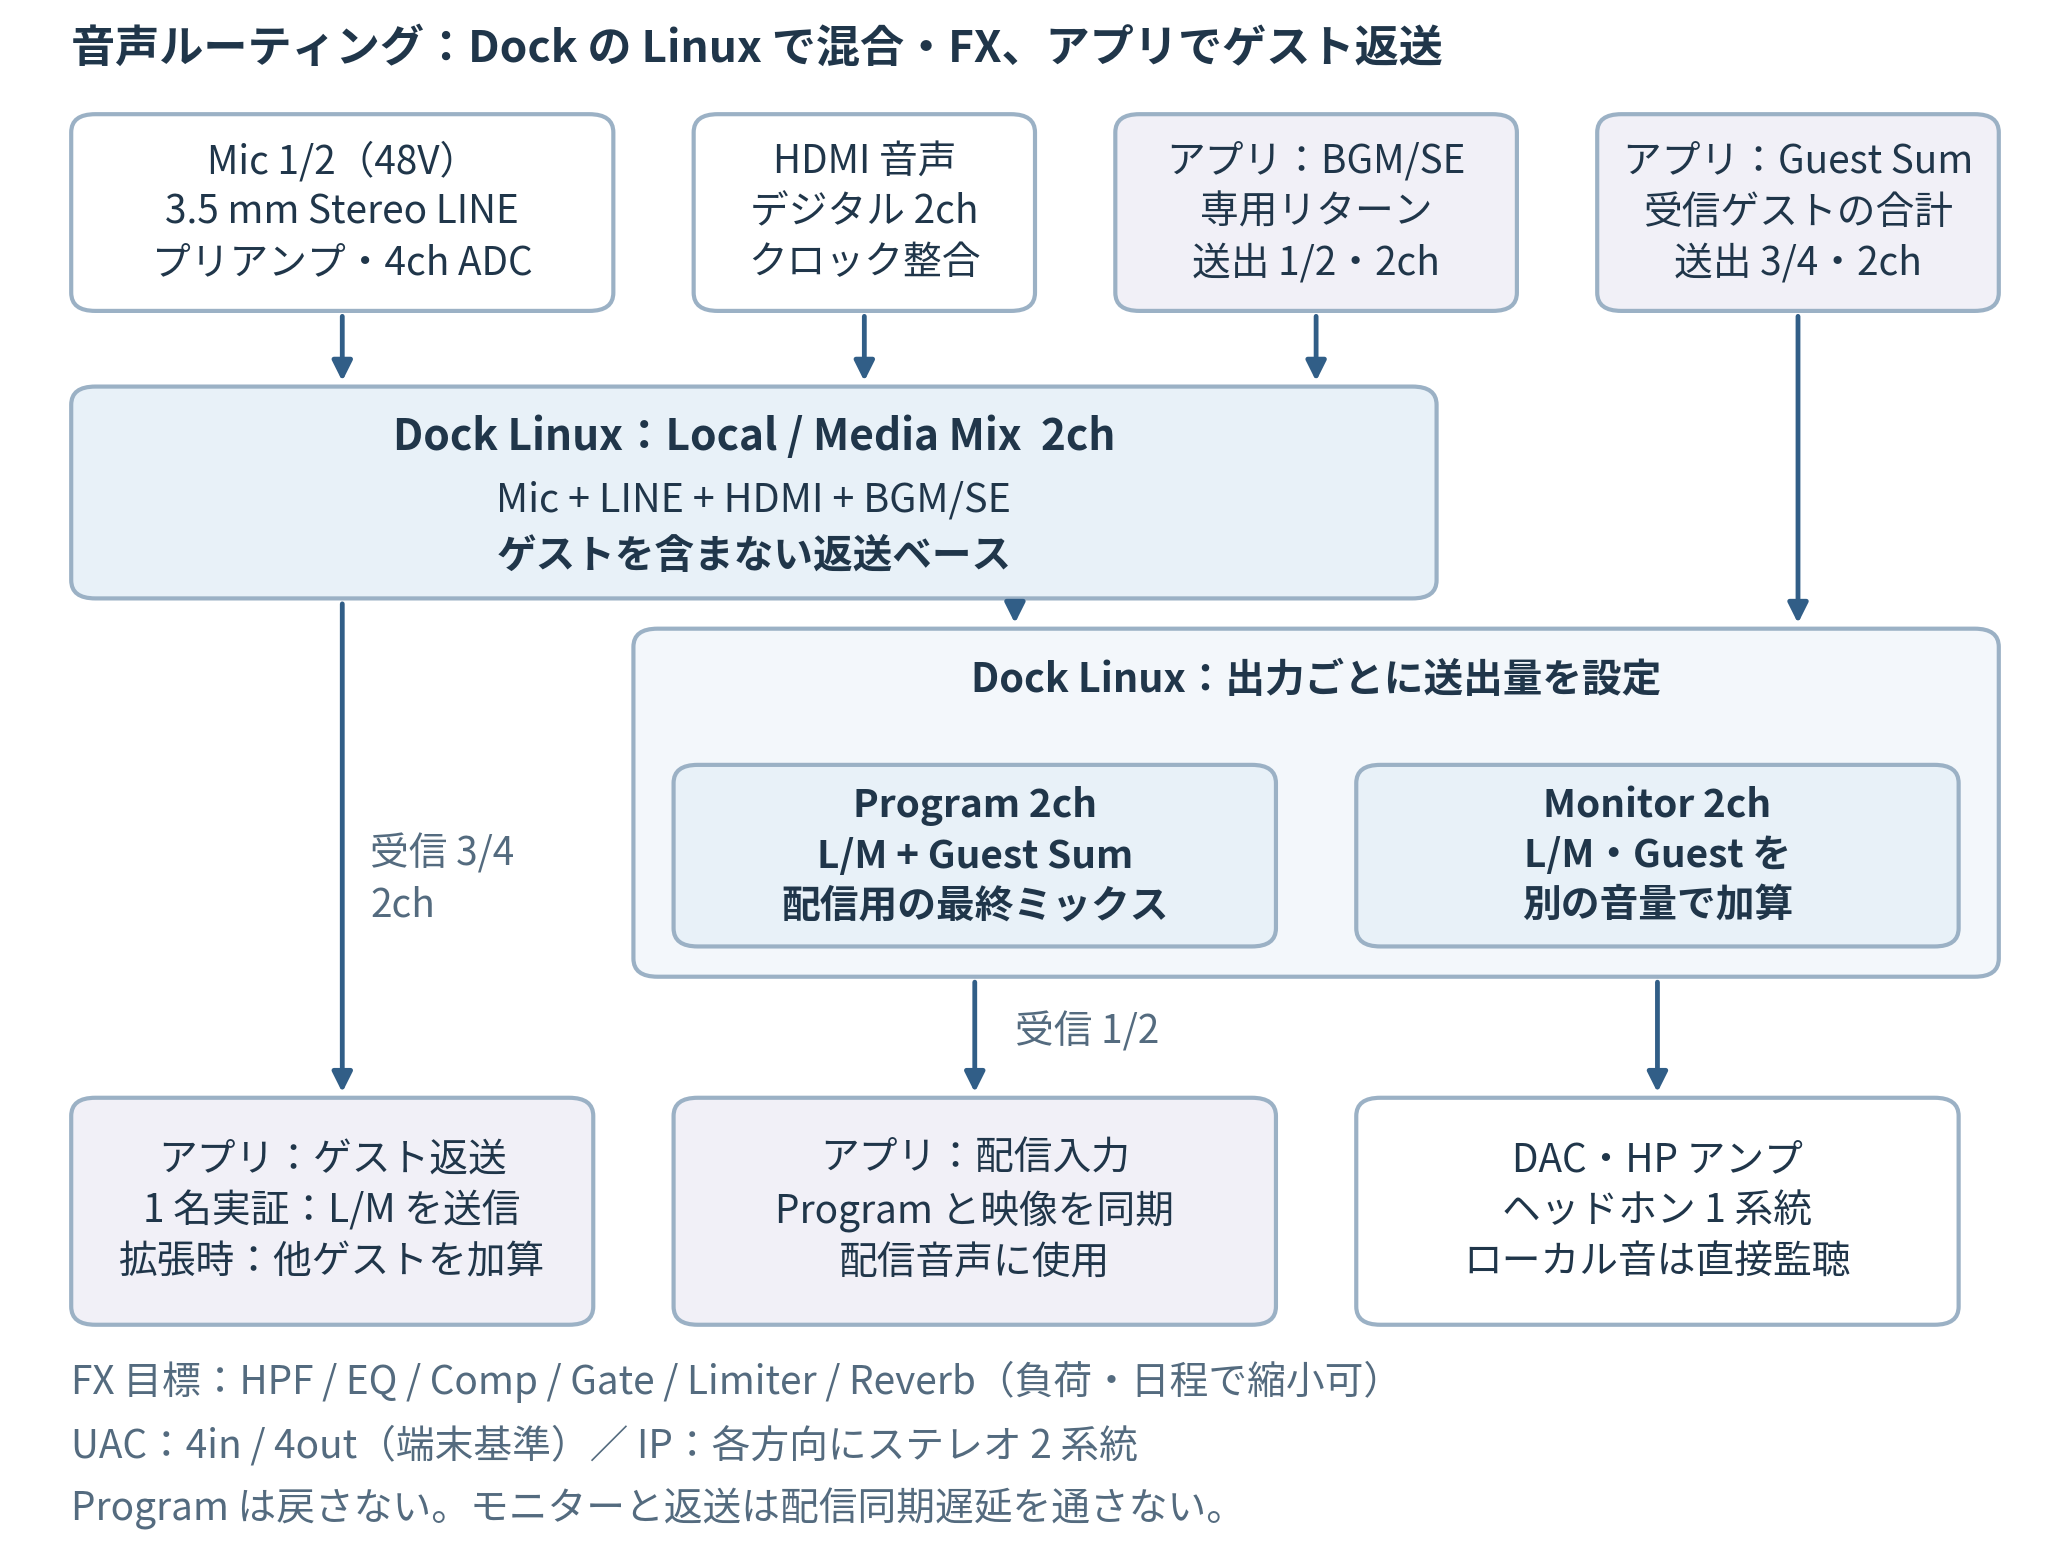
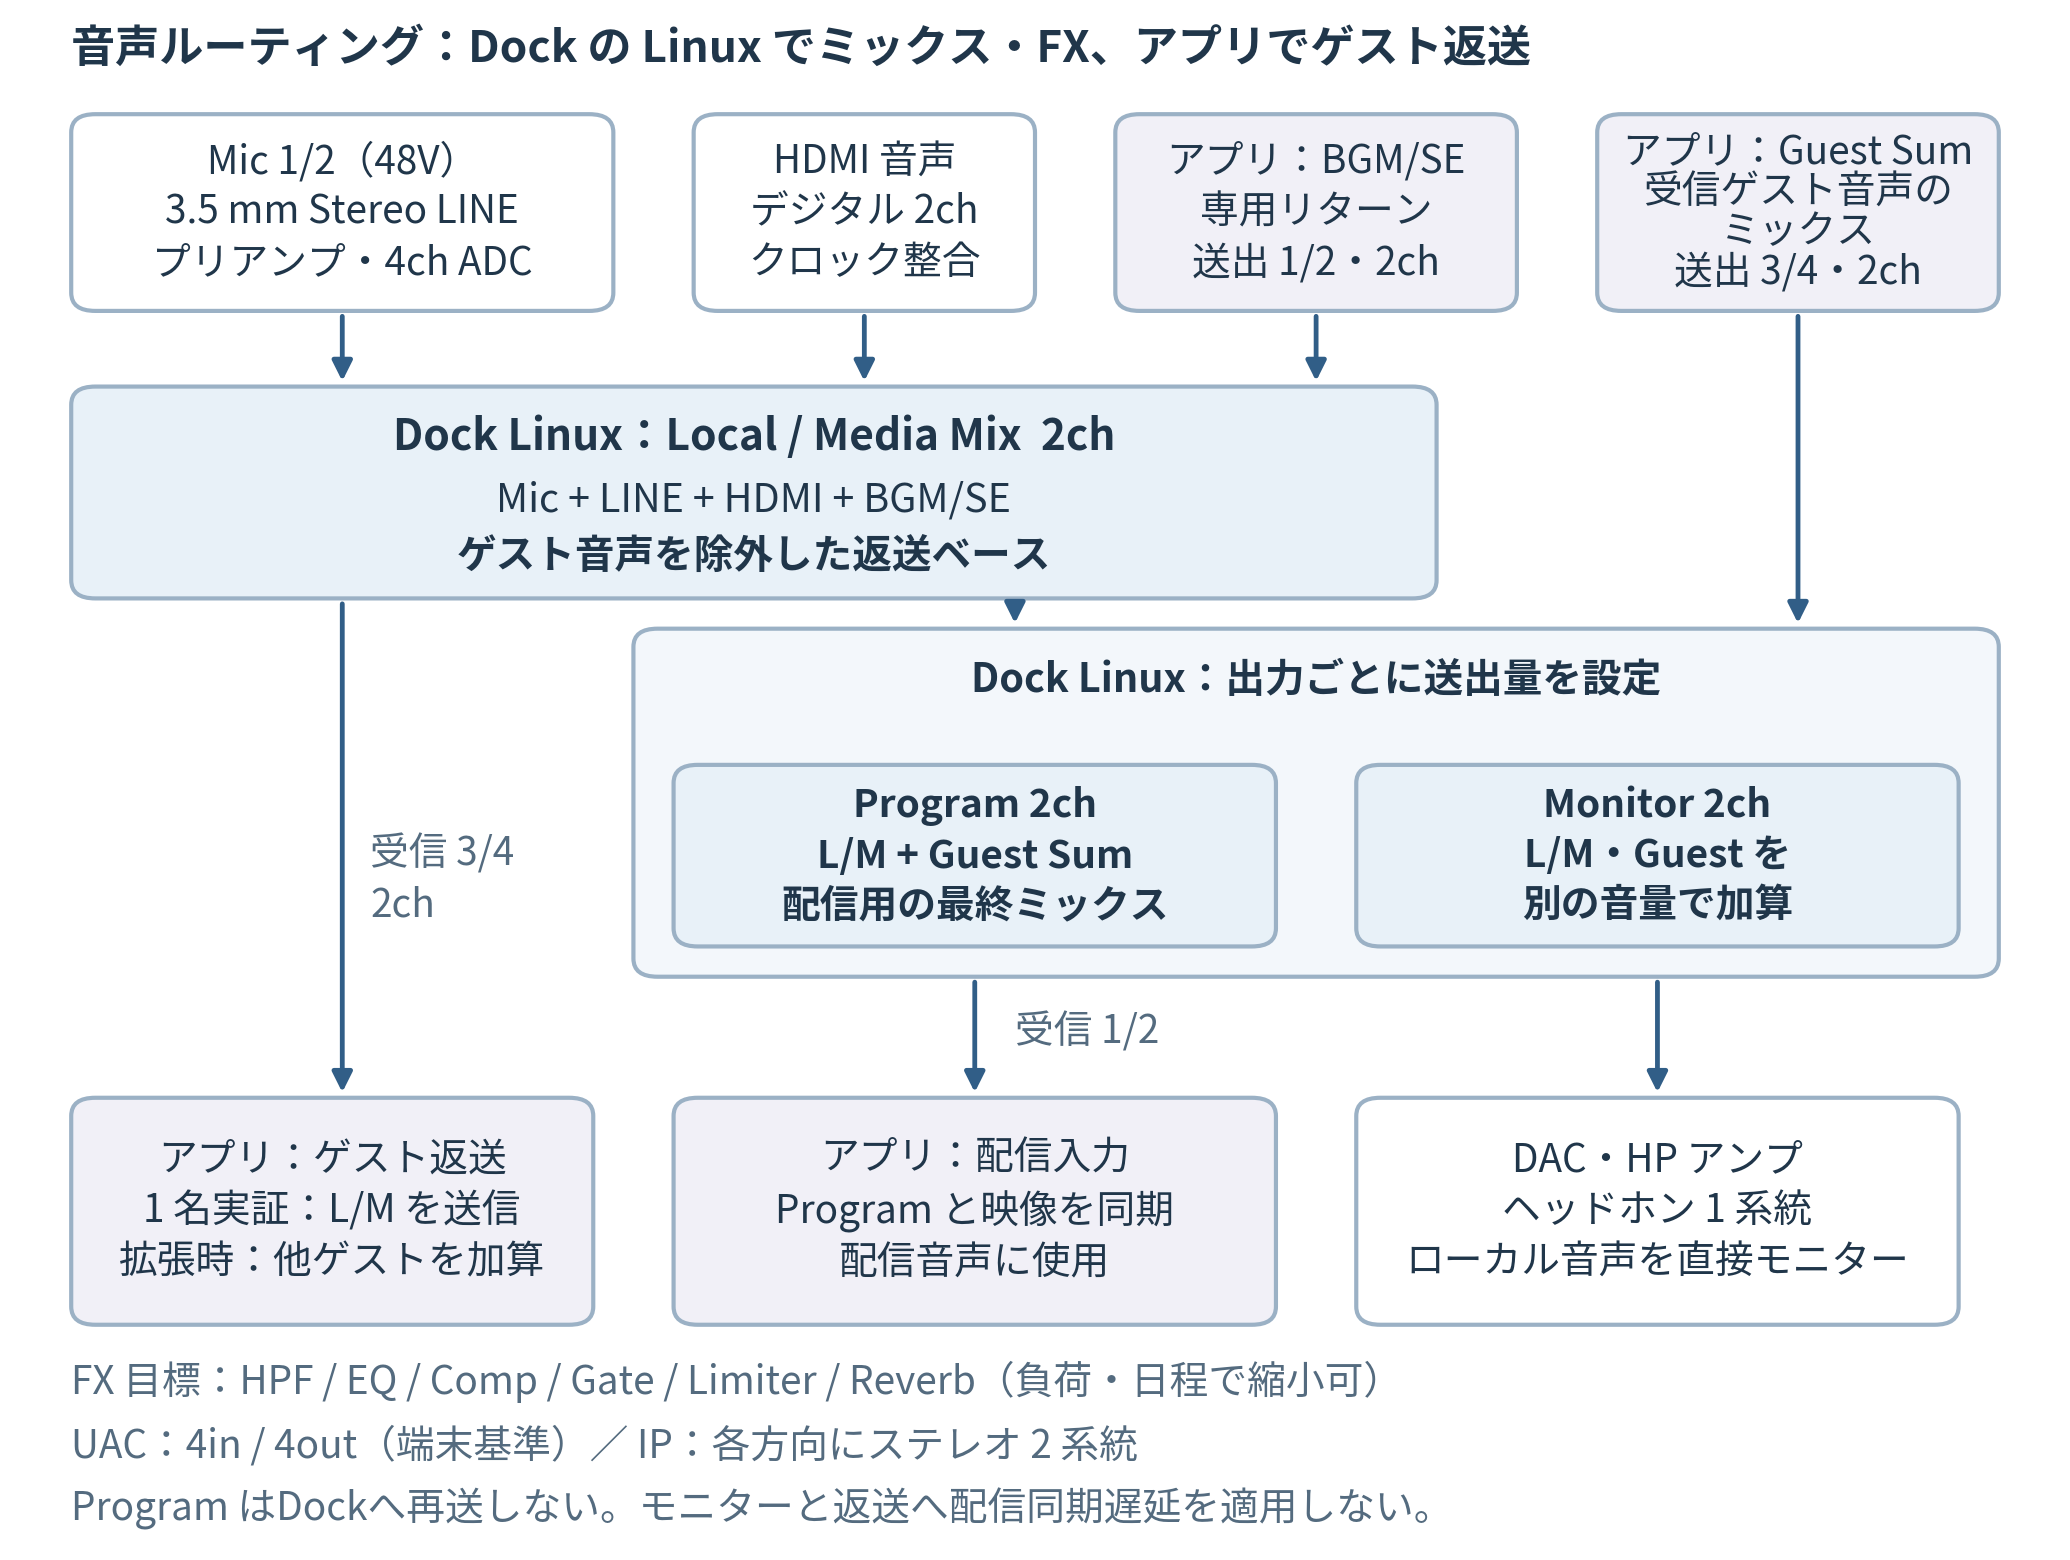
docs: システム図と音声経路図の日本語を校正
全体構成・音声ルーティング・A7S初期試作の図中ラベルと説明文を、校正済み仕様書に統一する。信号経路と検証条件は維持する。

diff --git a/docs/streaming-dock/assets/README.md b/docs/streaming-dock/assets/README.md
@@ -1,8 +1,8 @@
 # 構成図 — 構想仕様 v0.6
 
-更新日：2026年11月20日。 [仕様と進捗の入口](../README.md)
+更新日：2026年11月20日。 [仕様と進捗の概要](../README.md)
 
-このフォルダーの3図は、配信アプリとDockの構想仕様v0.6に基づく構成案です。図に描いた機能の同時動作、接続互換性、性能を実証済みとするものではありません。要求・提案・未決事項と試験条件は、各図から参照する本文で管理します。
+このフォルダーの3図は配信アプリとDockの構想仕様v0.6に基づく構成案です。図に描いた機能の同時動作、接続互換性、性能を実証済みとするものではありません。要求・提案・未決事項と試験条件は、各図から参照する本文で管理します。
 
 ## 図の一覧
 
@@ -22,3 +22,4 @@
 | V | 実機検証待ち。対象基板、OS、端末、接続と負荷をそろえて確認する。 |
 
 Linuxでmix／FXを行う方針と、FXの採用範囲・音声バスの実装・遅延の保証は区別します。端末充電とHDMIパススルーは希望機能です。最新の到達点は[実装状況と検証の記録](../implementation-status.md)を参照してください。
+
